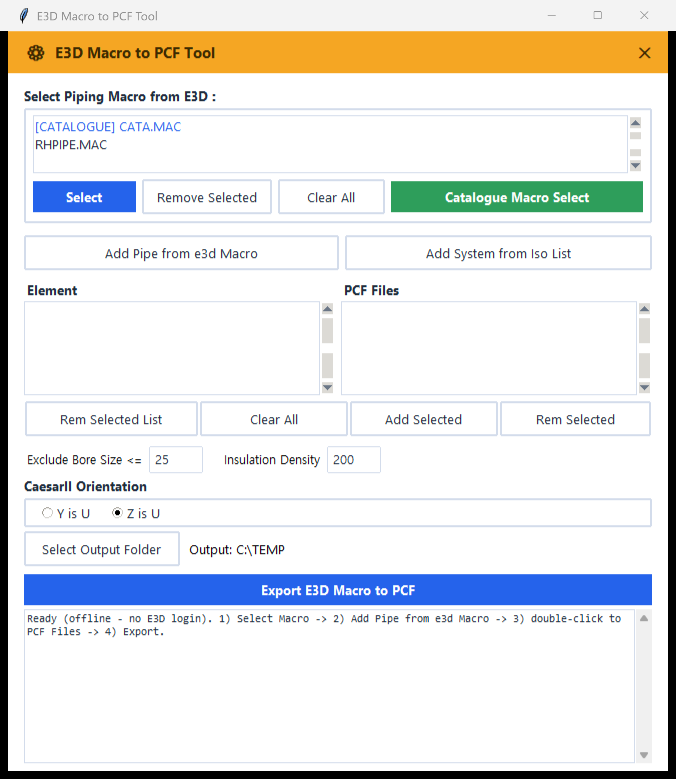
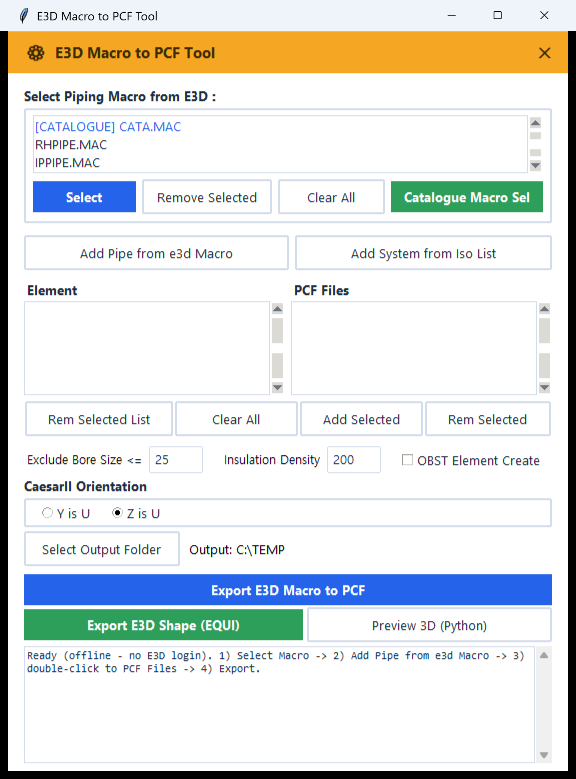
update catalog

diff --git a/index.html b/index.html
@@ -441,6 +441,11 @@ const PROJECTS = [
    status:"run", count:21,
    desc:"배관 스펙 PDF를 분석해 E3D용 스펙 MAC 4종을 자동 생성. 카탈로그·밸브 패밀리·레시피 기반 조립.",
    tags:["E3D","SPEC","MAC","PDF","catalog"]},
+  {cat:"conv", ic:"⚙️", title:"SP3D 배관 스펙 자동 생성기 (PMC 기반)", path:"SP3D_SPEC_GEN",
+   entry:["src/app.py"],
+   status:"run", count:13,
+   desc:"배관 스펙 PDF를 분석해 SmartPlant 3D 스펙 워크북(SKMU_Spec.xlsx)을 자동 생성. HanaMaster 카탈로그 기반.",
+   tags:["SP3D","SPEC","Excel","PDF","catalog"]},
   {cat:"conv", ic:"🧷", title:"E3D → PCF (CAESAR II)", path:"CAESARII",
    entry:["e3dtopcf.py"],
    status:"run", count:5,
@@ -546,6 +551,7 @@ const TR = {
   "STEEL_STRUCTURE/TEKLATOE3D":{title:"Tekla IFC → E3D",desc:"Parses Tekla IFC via ifcopenshell, extracts extrusion profiles / world placement, converts IfcBeam/Plate to E3D SCTN/PANE."},
   "E3D_STP_CONV":{title:"STEP → E3D Equipment",desc:"Heuristically recognizes NX STEP B-rep shapes and converts them to E3D primitives (CYLI / BOX / cylinder). Handles nozzles / flanges / bolts."},
   "E3D_SPEC_GEN":{title:"E3D Piping Spec Auto Generator from PMC",desc:"Analyzes a piping-spec PDF and auto-generates E3D spec MACs. Assembled from catalog · valve family · recipes."},
+  "SP3D_SPEC_GEN":{title:"SP3D Piping Spec Auto Generator from PMC",desc:"Analyzes a piping-spec PDF and auto-generates a SmartPlant 3D reference-data spec workbook (HanaMaster catalogue based)."},
   "CAESARII":{title:"E3D → PCF (CAESAR II)",desc:"Extracts E3D model to CAESAR II PCF input. Single flat MAC engine for TTY + Tkinter login GUI."},
   "CAESARII/E3D_MacroToPCF":{title:"E3D Macro File(PIPE) ---> PCF(CAESAR II)",desc:"Converts an E3D macro file (PIPE) into CAESAR II PCF input. Tkinter GUI."},
   "DATA_SHEET/LINE_LIST":{title:"Line / Valve List Auto Generator from P&ID & PMC",desc:"Builds a LINE LIST automatically by decoding KKS tags from P&ID (PDF/DXF). Includes From/To derivation and valve/symbol recognition."},